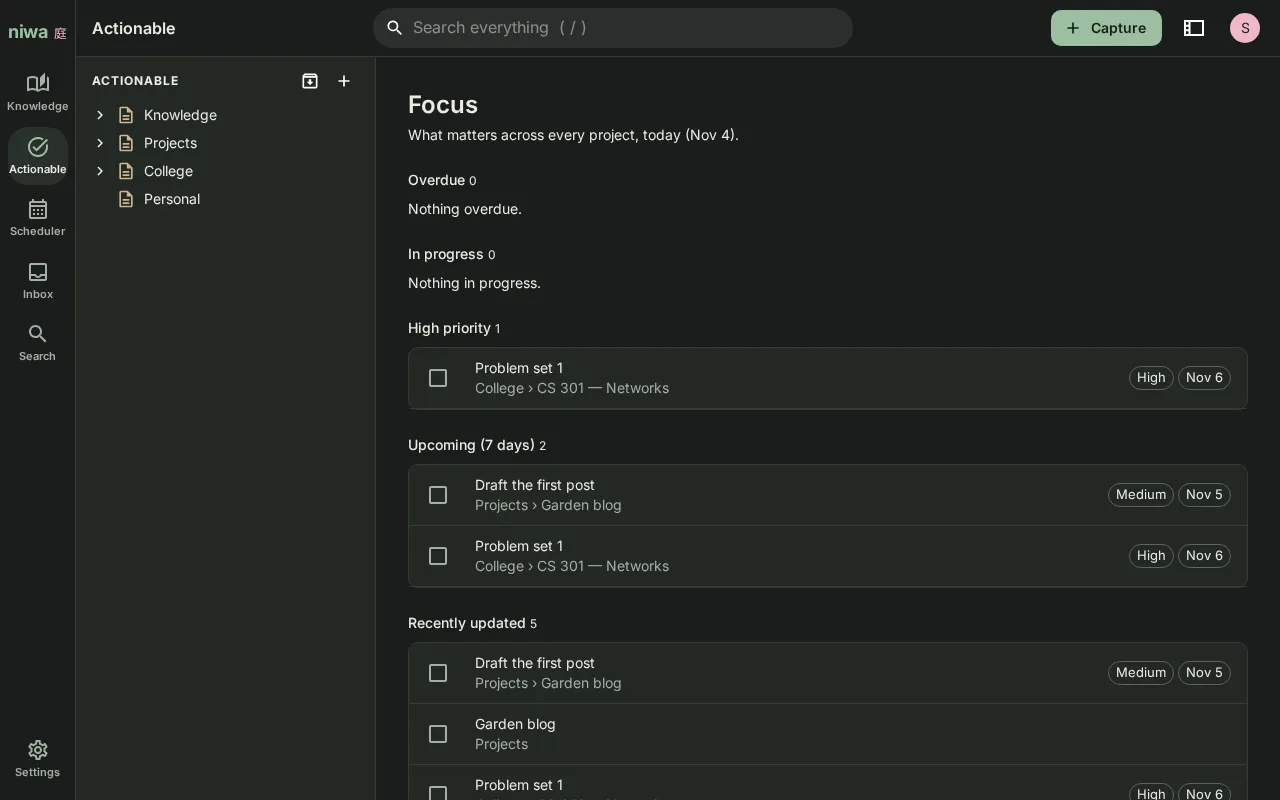
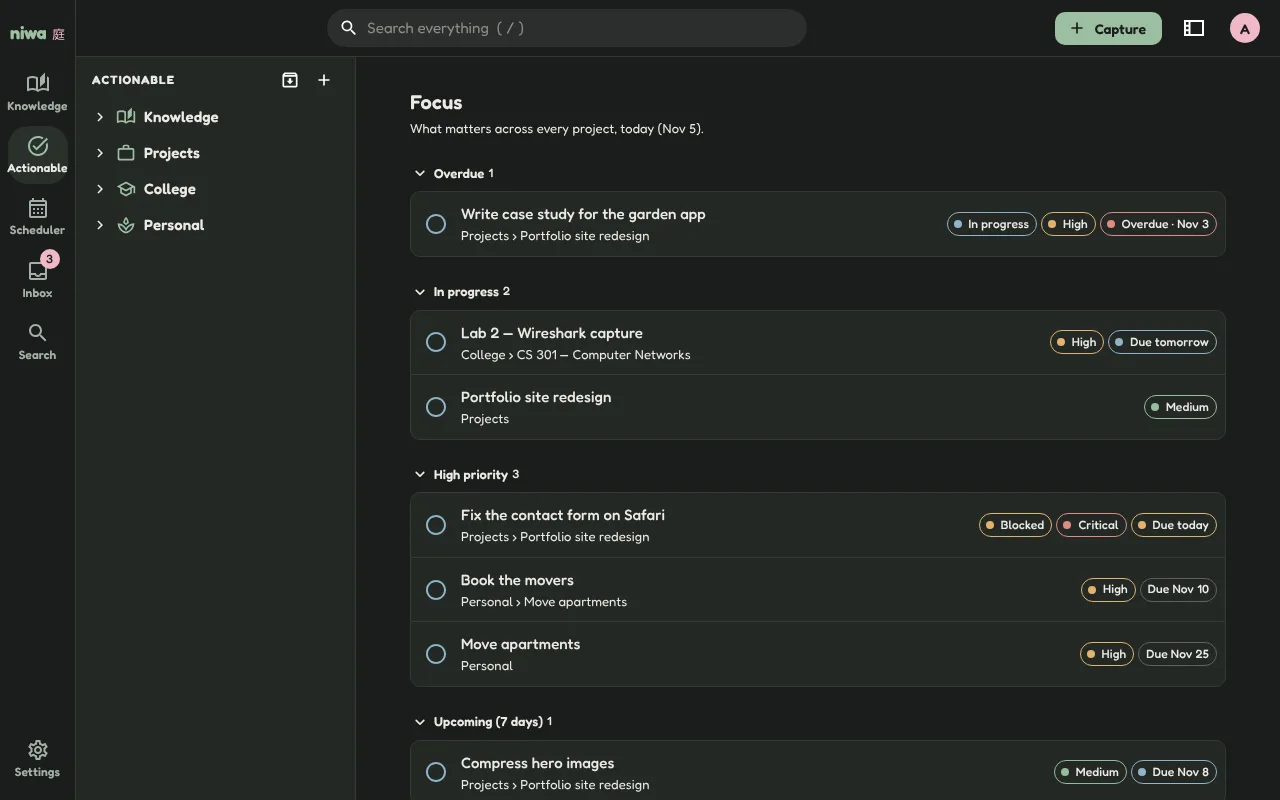
B-02 V8: auth pages and landing screenshots; touch targets
- Login and register: a password show/hide toggle (one PasswordField); the
  wordmark links home, like the landing header.
- Landing "See it" screenshots retaken from the refreshed UI with invented
  example content (`visual-audit -- --mock --landing-shots`, WebP encoded
  by the browser); alt text describes what they now show.
- Touch screens: icon buttons are at least 44 × 44 px (V7).

Claude-Session: https://claude.ai/code/session_01B5FJTJkTZJ7bYnGskcMhSq

diff --git a/web_app/src/auth/PasswordField.tsx b/web_app/src/auth/PasswordField.tsx
@@ -1,0 +1,44 @@
+import VisibilityOffOutlined from '@mui/icons-material/VisibilityOffOutlined';
+import VisibilityOutlined from '@mui/icons-material/VisibilityOutlined';
+import IconButton from '@mui/material/IconButton';
+import InputAdornment from '@mui/material/InputAdornment';
+import TextField, { type TextFieldProps } from '@mui/material/TextField';
+import Tooltip from '@mui/material/Tooltip';
+import { useState } from 'react';
+
+/** Password input with a show/hide toggle (B-02 V8). */
+export function PasswordField(props: Omit<TextFieldProps, 'type'>) {
+  const [visible, setVisible] = useState(false);
+  const label = visible ? 'Hide password' : 'Show password';
+  return (
+    <TextField
+      {...props}
+      type={visible ? 'text' : 'password'}
+      slotProps={{
+        ...props.slotProps,
+        input: {
+          endAdornment: (
+            <InputAdornment position="end">
+              <Tooltip title={label}>
+                <IconButton
+                  edge="end"
+                  aria-label={label}
+                  aria-pressed={visible}
+                  onClick={() => setVisible((v) => !v)}
+                  // Keep focus (and the caret) in the field.
+                  onMouseDown={(e) => e.preventDefault()}
+                >
+                  {visible ? (
+                    <VisibilityOffOutlined fontSize="small" />
+                  ) : (
+                    <VisibilityOutlined fontSize="small" />
+                  )}
+                </IconButton>
+              </Tooltip>
+            </InputAdornment>
+          ),
+        },
+      }}
+    />
+  );
+}

diff --git a/web_app/src/public/LandingPage.tsx b/web_app/src/public/LandingPage.tsx
@@ -271,17 +271,20 @@ function Lenses() {
   );
 }
 
-/** Real screenshots of the app (B2.P2), with example content made for them. */
+/**
+ * Real screenshots of the app (B2.P2), with example content made for them; retaken after the B-02 refresh
+ * with `pnpm --filter @niwa/web visual-audit -- --mock --landing-shots`.
+ */
 function Screens() {
   const shots = [
     {
       src: '/screens/knowledge-light.webp',
-      alt: 'A course project open in the Knowledge lens, light theme: the tree on the left, the note editor in the middle and item details on the right.',
+      alt: 'A course note open in the Knowledge lens, light theme: the tree on the left, the note with headings and a list in the middle, and its details on the right.',
       caption: 'Knowledge, light theme',
     },
     {
       src: '/screens/focus-dark.webp',
-      alt: 'The Focus view in dark theme, listing high-priority, upcoming and recently updated tasks from different projects.',
+      alt: 'The Focus view in dark theme: overdue, in-progress, high-priority and upcoming tasks from different projects, each shown once with its priority and due date.',
       caption: 'Focus, dark theme',
     },
   ];

diff --git a/web_app/src/auth/RegisterPage.tsx b/web_app/src/auth/RegisterPage.tsx
@@ -14,6 +14,7 @@ import { messageOf } from '../api/client.ts';
 import { muiField } from '../lib/forms.ts';
 import { useRegistrationOpen } from '../public/useRegistrationOpen.ts';
 import { AuthLayout } from './AuthLayout.tsx';
+import { PasswordField } from './PasswordField.tsx';
 import { useAuth } from './AuthProvider.tsx';
 
 const RegisterForm = RegisterInput.extend({ confirmPassword: z.string() }).refine(
@@ -66,17 +67,15 @@ export function RegisterPage() {
             helperText={errors.email?.message}
             {...muiField(register('email'))}
           />
-          <TextField
+          <PasswordField
             label="Password"
-            type="password"
             autoComplete="new-password"
             error={!!errors.password}
             helperText={errors.password?.message ?? 'At least 12 characters.'}
             {...muiField(register('password'))}
           />
-          <TextField
+          <PasswordField
             label="Confirm password"
-            type="password"
             autoComplete="new-password"
             error={!!errors.confirmPassword}
             helperText={errors.confirmPassword?.message}

diff --git a/web_app/src/auth/AuthLayout.tsx b/web_app/src/auth/AuthLayout.tsx
@@ -1,7 +1,9 @@
 import Box from '@mui/material/Box';
+import Link from '@mui/material/Link';
 import Paper from '@mui/material/Paper';
 import Typography from '@mui/material/Typography';
 import type { ReactNode } from 'react';
+import { Link as RouterLink } from 'react-router';
 import { Wordmark } from '../components/Wordmark.tsx';
 
 export function AuthLayout({
@@ -27,7 +29,15 @@ export function AuthLayout({
     >
       <Box sx={{ width: '100%', maxWidth: (t) => t.niwa.width.narrow }}>
         <Box sx={{ textAlign: 'center', mb: 4 }}>
-          <Wordmark size="large" />
+          <Link
+            component={RouterLink}
+            to="/"
+            underline="none"
+            aria-label="NIWA home"
+            sx={{ display: 'inline-block' }}
+          >
+            <Wordmark size="large" />
+          </Link>
           <Typography variant="body2" color="text.secondary" sx={{ mt: 1.5 }}>
             A garden for your ideas.
           </Typography>

diff --git a/web_app/src/auth/LoginPage.tsx b/web_app/src/auth/LoginPage.tsx
@@ -14,6 +14,7 @@ import { messageOf } from '../api/client.ts';
 import { muiField } from '../lib/forms.ts';
 import { useRegistrationOpen } from '../public/useRegistrationOpen.ts';
 import { AuthLayout } from './AuthLayout.tsx';
+import { PasswordField } from './PasswordField.tsx';
 import { useAuth } from './AuthProvider.tsx';
 
 type FormIn = z.input<typeof LoginInput>;
@@ -56,9 +57,8 @@ export function LoginPage() {
             helperText={errors.email?.message}
             {...muiField(register('email'))}
           />
-          <TextField
+          <PasswordField
             label="Password"
-            type="password"
             autoComplete="current-password"
             error={!!errors.password}
             helperText={errors.password?.message}

diff --git a/web_app/src/app/theme.ts b/web_app/src/app/theme.ts
@@ -208,6 +208,10 @@ a:focus-visible {
         },
       },
       MuiButton: { defaultProps: { disableElevation: true } },
+      // Touch screens: every icon button is at least 44 × 44 px (WCAG 2.5.5 target size, V7).
+      MuiIconButton: {
+        styleOverrides: { root: { '@media (pointer: coarse)': { minWidth: 44, minHeight: 44 } } },
+      },
       MuiPaper: { defaultProps: { elevation: 0 } },
       MuiPopover: { styleOverrides: { paper: ({ theme }) => layered('popover')(theme) } },
       MuiMenu: { styleOverrides: { paper: ({ theme }) => layered('popover')(theme) } },
